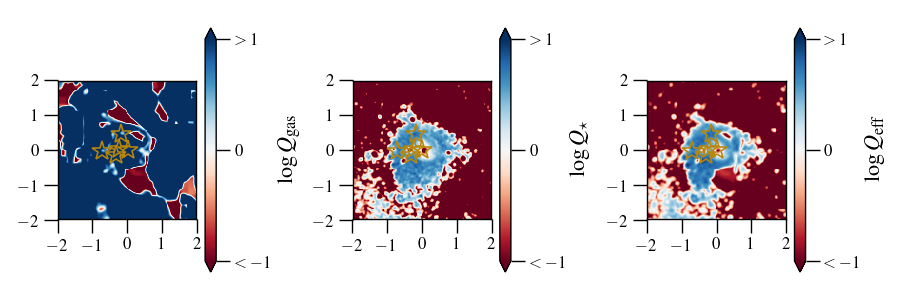
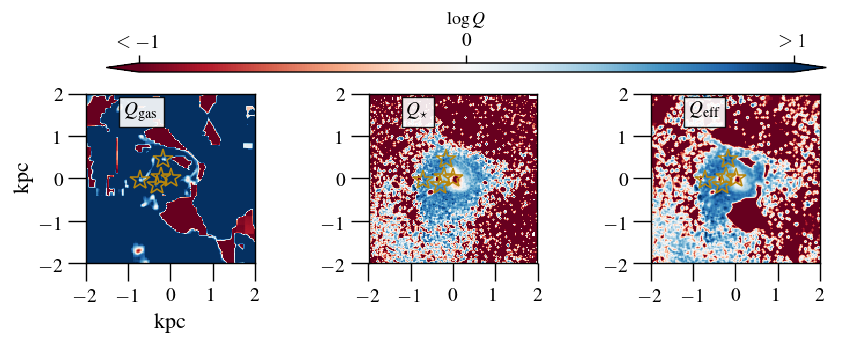
updated fig and text correspondingly

diff --git a/WRITEUP/ms.tex b/WRITEUP/ms.tex
@@ -560,15 +560,27 @@ Size-mass relation of MCs identified in the accretion phase of \flower in our si
 \label{fig:MR}}
 \end{figure*}
 
-Maps of the Toomre $Q$ parameters for the gas, stars, and the effective two-component $Q_{\rm eff}$ are shown in Figures~\ref{fig:Q}, \ref{fig:Qstar}, and \ref{fig:Qeff}, respectively (see also \Fig{h2density} for an example of MCs identified in this evolutionary stage of \flower
-for different $n_{\rm cut}$). Fragmentation are expected in regions of low Toomre $Q$ values. \AP{why then we do not postpone the figure presentation?} \DL{I am not sure if I should first show all the plots in Sec 4 and the discuss in details in Sec 5 or what. I guess we could just show
+Maps of the Toomre $Q$ parameters for the gas, stars, and the effective two-component $Q_{\rm eff}$ are shown in \Fig{Q} 
+(see also \Fig{h2density} for an example of MCs identified in this evolutionary stage of \flower
+for different $n_{\rm cut}$). Fragmentation are expected in regions of low Toomre $Q$ values.
+ \AP{why then we do not postpone the figure presentation?} \DL{I am not sure if I should first show all the plots in Sec 4 and the discuss in details in Sec 5 or what. I guess we could just show
 in Sec 5.}
+We discuss the importance of accounting for stellar contributions and the effect of the thickness of the disk to the total stability criterion. 
+Close resemblance of the $Q_{\rm eff}$ and $Q_{\star}$ maps indicates that contributions from the stellar component play an important role in 
+governing the stability of the MCs against $m$\eq0 perturbations.
+This can be understood since stars in \flower dominates in mass in the central part of the galaxy, 
+so their gravitational potential provides a non-negligible contribution to the stability. 
+Similarly, contribution from the thickness of the disk is important in \flower since its disk is not thin (with a 
+scale height ratio of $h/r_{\rm gal}$\ssim150\,pc/1\,kpc$\simeq$\,0.15) and since \flower is more of a warped disk.
+That is, some MCs are located in regions of $Q_{\rm gas}$\ssim1, but 
+when including the effects of stars and thickness of the disk (via $\sigma_z$),
+they are consistent with $Q_{\rm gas} > 1$.
 Further interpretation and implication of this is discussed in \Sec{origin}.
 
 \begin{figure*}
 \centering
 \includegraphics[width=0.9\textwidth]{\figpath/{ss16_toomre_combined_2by2_0}.png}
-\caption{\AP{let me know which scheme you prefer (as per mail) or you would like a different plotting scheme; in any case, i guess we should go from $\log \sigma$ to $\sigma$; additionally we might want to use shared colorbars (e.g. $\Sigma_{gas}\,,\Sigma_{\star}-> \Sigma$) and write gas and stars as white text on the maps}
+\caption{\AP{guess we should go from $\log \sigma$ to $\sigma$; additionally we might want to use shared colorbars (e.g. $\Sigma_{gas}\,,\Sigma_{\star}-> \Sigma$) and write gas and stars as white text on the maps}
 %
 }
 \end{figure*}
@@ -576,9 +588,18 @@ Further interpretation and implication of this is discussed in \Sec{origin}.
 \begin{figure*}
 \centering
 \includegraphics[width=0.9\textwidth]{\figpath/{ss16_toomre_combined_3by1_0}.png}
-\caption{\AP{we should probably use horizontal colorbars or a signle vertical one, with gas stars and combined written as an inset; probably the 50 pc smoothing radius is be too large, we might want to go to 30 or 20}
-%
-}
+\caption{
+Toomre $Q$ maps derived from the gas (left) and stellar (middle) components, respectively. 
+A map of the effective two-component Toomre $Q_{\rm eff}$ parameter is shown in the right panel. 
+All maps are projected onto the $xy$-plane.
+Positions of MCs identified with $n_{\rm cut}$\eq6.81\,cm$^{-3}$ are overplotted as star symbols.
+% Bottom row: Effective $Q_{\rm eff}$ (left) and gas surface density (right) maps zoomed in on the central 1.5\,kpc region.
+A smoothing length of 30\,pc has been applied to the maps.
+A divergent colormap is used for the Toomre $Q$ map to facilitate 
+identification of regions above and below $\log{Q_{\rm gas}}$\eq0.
+Some MCs lie in regions of $\log{Q_{\rm eff}}\gtrsim0$, where regions of $\log{Q_{\rm eff}}\lesssim0$ 
+are likely gravitationally unstable.
+\label{fig:Qeff}}
 \end{figure*}
 
 \begin{comment}
